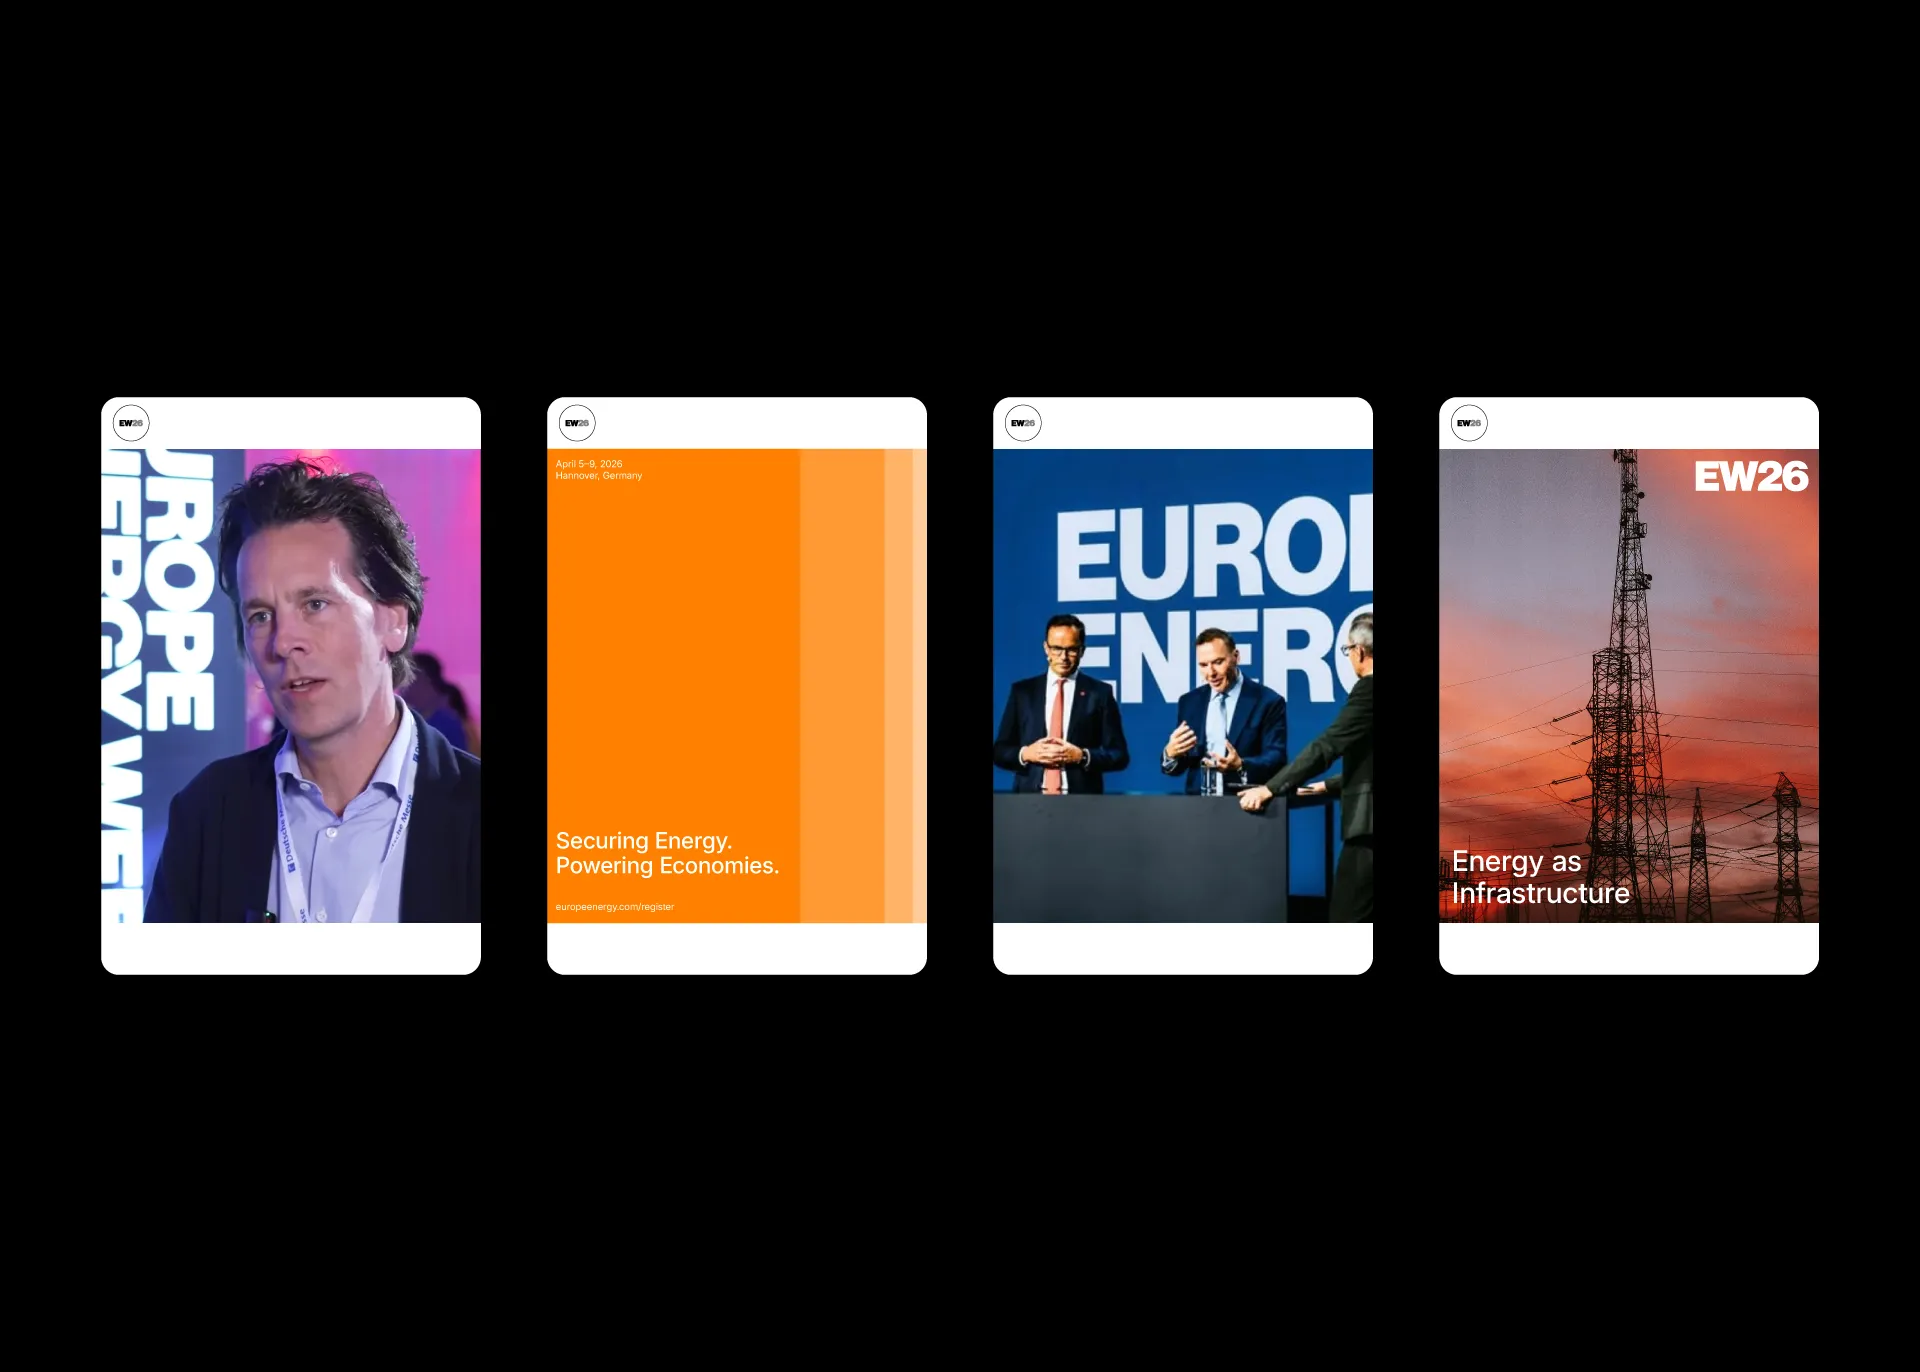
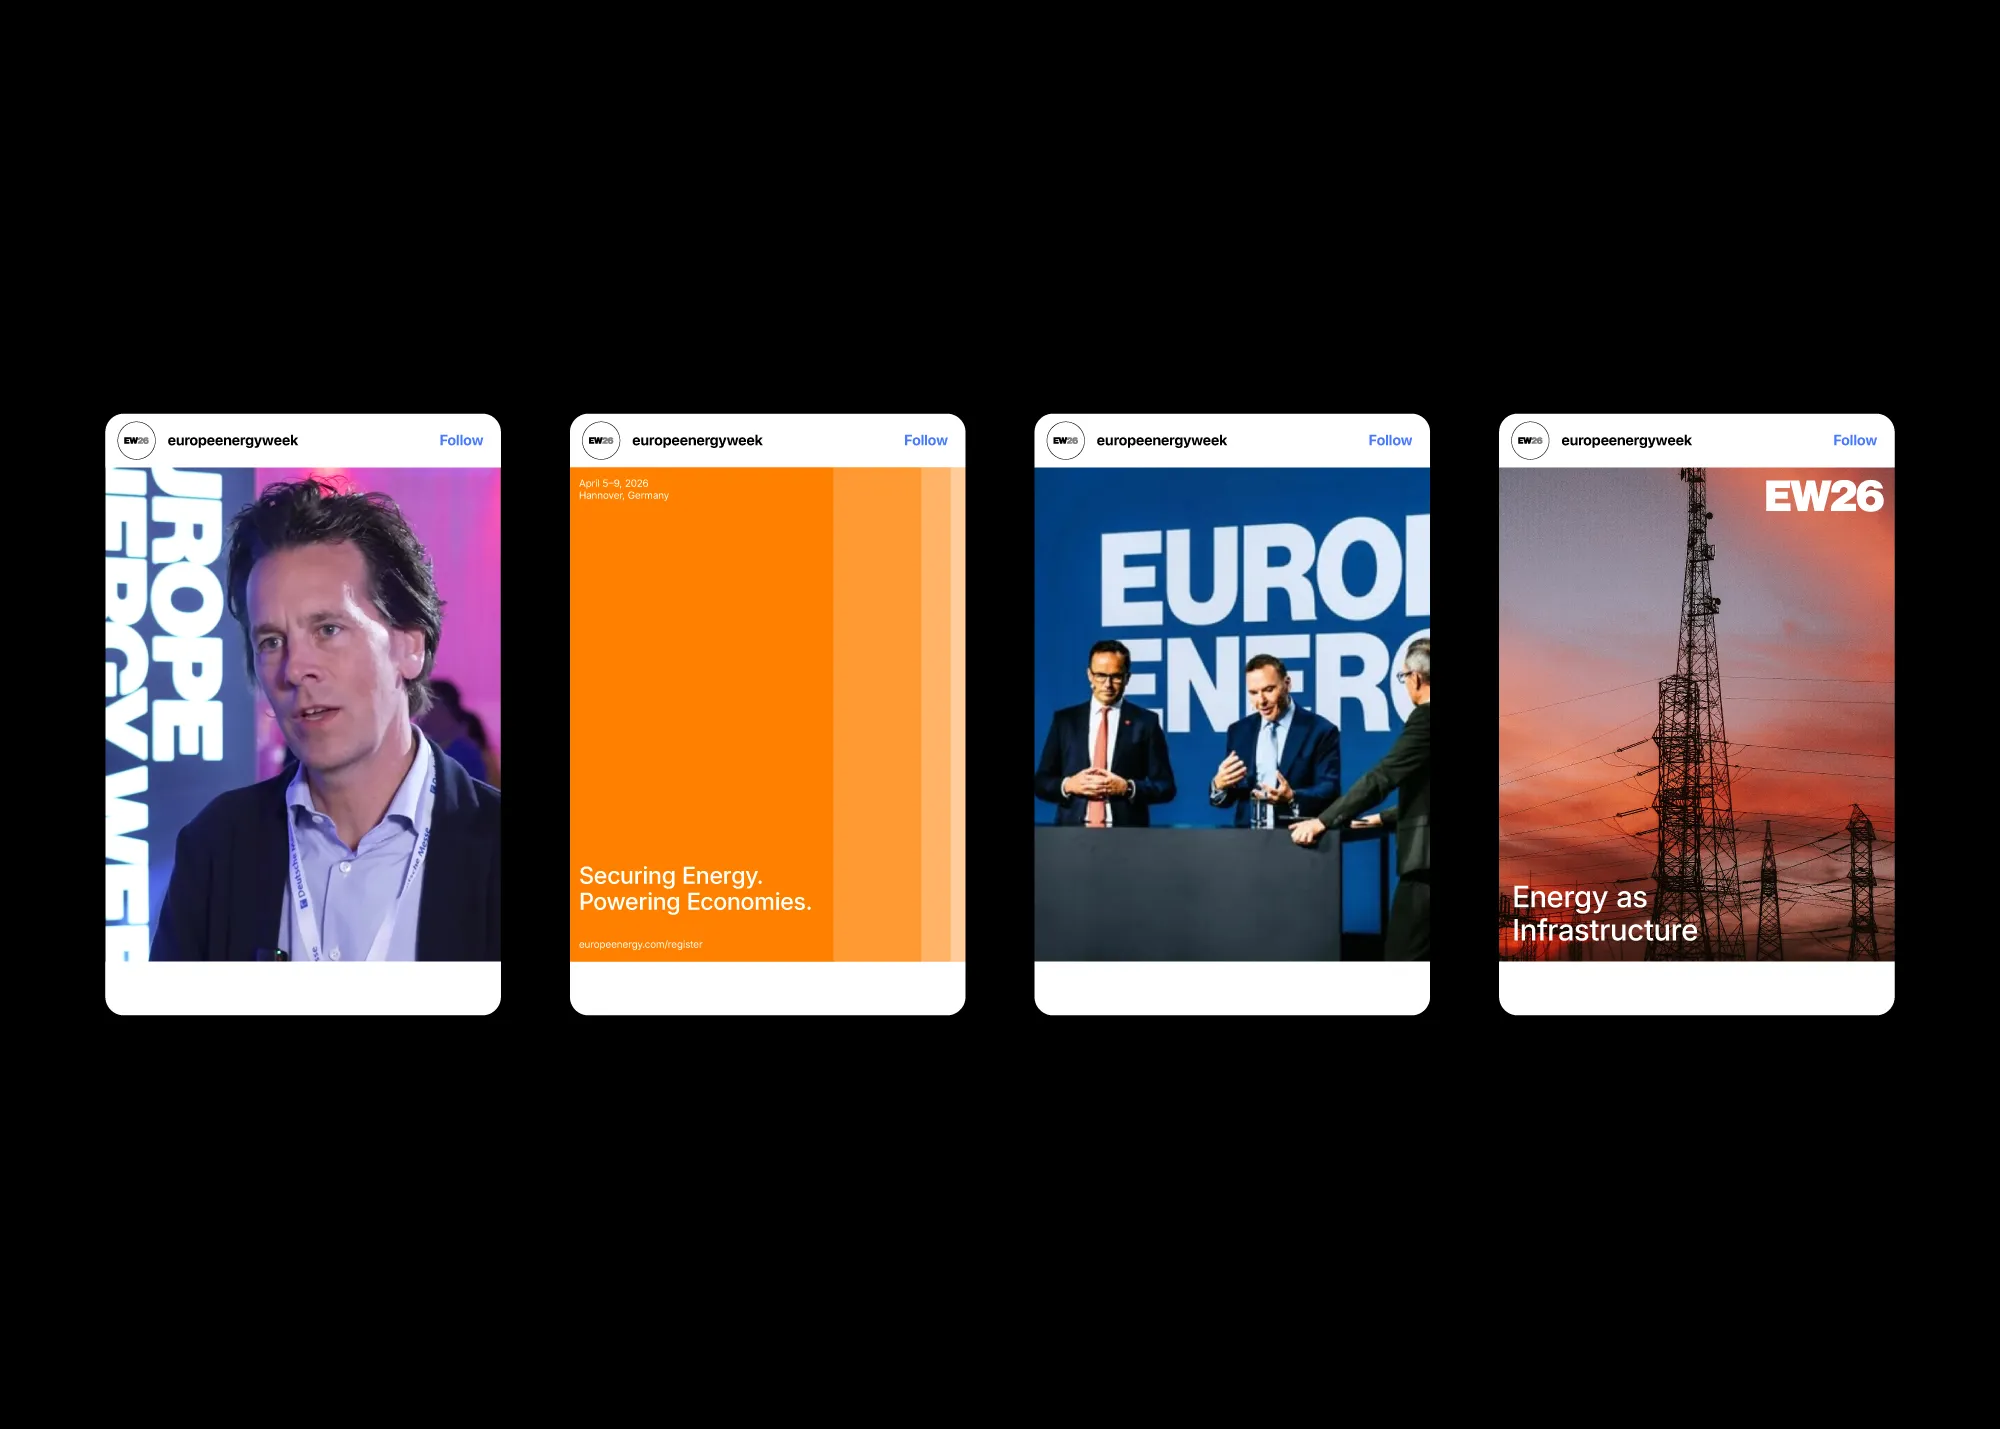
added listaid case

diff --git a/_site/projects/listaid/index.html b/_site/projects/listaid/index.html
@@ -1,0 +1,171 @@
+<!DOCTYPE html>
+<html lang="en">
+    <head>
+        <meta charset="UTF-8">
+        <meta name="viewport" content="width=device-width, initial-scale=1.0">
+        <meta http-equiv="X-UA-Compatible" content="ie=edge">
+        <meta name="author" content="Thomas Hadfield">
+        <meta name="description" content="Thomas Hadfield is a Canadian multidisciplinary graphic designer living and working in Toronto.">
+        <link rel="stylesheet" href="/styles/style.css">
+        <link rel="icon" type="image/x-icon" href="/assets/images/favicon.png">
+
+        <title>Thomas Hadfield – ListAid</title>
+
+    </head>
+
+
+
+    <body>
+
+        <div class="wrapper">
+            
+                    <header>
+
+            <section class="header-wrap">
+                <div class="header-left">
+                    <a href="/" class="header-home-btn"><h1>Thomas Hadfield <br> Graphic Designer </h1></a>
+                </div>
+
+                <div class="header-right">
+                    <h2> London, UK </h2>
+                    <output class="current-time" id="time">00:00:00</output>
+                </div>
+            </section>
+
+        </header>
+            
+        <section class="intro intro-alt">
+                
+            <div class="intro-info-wrap">
+
+                <p class="intro-links">
+                    <a href="/info/" rel="noopener noreferrer">Info</a>,
+                    <a href="mailto:work@hadfield.xyz" target="_blank" rel="noopener noreferrer">Email</a>,
+                    <a href="https://www.linkedin.com/in/thomashadfield" target="_blank" rel="noopener noreferrer">LinkedIn</a>,
+                    <a href="https://mastodon.social/@neuehaas" target="_blank" rel="noopener noreferrer">Mastodon</a>
+                </p>
+
+            </div>
+
+        </section>
+
+
+
+
+
+            
+        <!-- INFO -->
+
+        <section class="project-info">
+
+            <div class="intro-cont-wrap">
+                <h3 class="project-title">
+                    ListAid, 
+                </h3>
+
+                <h3 class="project-subject-intro">
+                    Brand Identity
+                </h3>
+            </div>
+            
+            <p class="intro-desc"> 
+                ListAid is an AI-powered pricing, listing, and retail intelligence app for charity shops and resellers. We used the brand strategy of &quot;A Circular Economy at Speed&quot; to root the logo and brand identity system. The logo icon shape expanded into a graphic device that helped make the brand colours and imagery cropping very ownable to Listaid&#39;s story. Allowing them to clearly get their brand messaging across. This simple set yet bold, strategy driven design system helped ListAid greatly stand out from their competitors and define who they are.
+                <br><br>
+                
+                <a href="  " target="_blank" rel="noopener noreferrer">  </a>
+                <br>
+                <a href="  " target="_blank" rel="noopener noreferrer">  </a>
+            </p>
+
+        </section>
+
+
+
+
+
+
+            <!-- PORTFOLIO -->
+            <section class="case-study">
+                
+                <img src="/assets/images/projects/listaid/listaid-byTH-horizontal-image-1.png" alt="listaid primary logo on blue background">
+<div class="two-col">
+    <img loading="lazy" src="/assets/images/projects/listaid/listaid-byTH-vertical-image-2.png" alt="listaid logo breakdown">
+    <img loading="lazy" src="/assets/images/projects/listaid/listaid-byTH-vertical-image-3.png" alt="listaid logo icon">
+</div>
+<img loading="lazy" src="/assets/images/projects/listaid/listaid-byTH-horizontal-image-4.webp" alt="listaid sticker on macbook pro">
+<div class="two-col">
+    <img loading="lazy" src="/assets/images/projects/listaid/listaid-byTH-vertical-image-5.png" alt="listaid logo construction, showing the logo angle">
+    <img loading="lazy" src="/assets/images/projects/listaid/listaid-byTH-vertical-image-6.webp" alt="rhombus shapes for images, derived from the logo">
+</div>
+<img loading="lazy" src="/assets/images/projects/listaid/listaid-byTH-horizontal-image-7.webp" alt="listaid horizontal banner ad outside on wall">
+<div class="two-col">
+    <img loading="lazy" src="/assets/images/projects/listaid/listaid-byTH-vertical-image-8.png" alt="colour palette">
+    <img loading="lazy" src="/assets/images/projects/listaid/listaid-byTH-vertical-image-9.webp" alt="listaid app icon, shown close up on phone screen">
+</div>
+<img loading="lazy" src="/assets/images/projects/listaid/listaid-byTH-horizontal-image-10.png" alt="primary brand typeface, Aspekta 800">
+<img loading="lazy" src="/assets/images/projects/listaid/listaid-byTH-horizontal-image-11.webp" alt="horizontal ad on wall inside underground next to staircase">
+<div class="two-col">
+    <img loading="lazy" src="/assets/images/projects/listaid/listaid-byTH-vertical-image-12.png" alt="listaid identity example">
+    <img loading="lazy" src="/assets/images/projects/listaid/listaid-byTH-vertical-image-13.webp" alt="back of listaid promotional t-shirt">
+</div>
+<img loading="lazy" src="/assets/images/projects/listaid/listaid-byTH-horizontal-image-14.webp" alt="listaid vertical ad, outside of green space">
+<img loading="lazy" src="/assets/images/projects/listaid/listaid-byTH-horizontal-image-15.webp" alt="listaid website example, shown on laptop">
+<div class="two-col">
+    <img loading="lazy" src="/assets/images/projects/listaid/listaid-byTH-vertical-image-16.webp" alt="front of listaid business card">
+    <img loading="lazy" src="/assets/images/projects/listaid/listaid-byTH-vertical-image-17.webp" alt="image of second hand clothing store">
+</div>
+<img loading="lazy" src="/assets/images/projects/listaid/listaid-byTH-horizontal-image-18.webp" alt="four listaid social post examples">
+<img loading="lazy" src="/assets/images/projects/listaid/listaid-byTH-horizontal-image-19.webp" alt="large horizontal listaid ad, on the side of a building.">
+<div class="two-col">
+    <img loading="lazy" src="/assets/images/projects/listaid/listaid-byTH-vertical-image-20.webp" alt="listaid blue tote back sitting on floor">
+    <img loading="lazy" src="/assets/images/projects/listaid/listaid-byTH-vertical-image-21.png" alt="listaid linkedin banner and icon example">
+</div>   
+
+            </section>
+            
+            <section class="pre-footer">
+                <p class="back-btn">
+                    <a href="/">See More Projects</a>
+                </p>
+            </section>
+
+            
+
+            <footer>
+                <div class="footer-content-1">
+                    <p class="footer-copyright">©2026 thomas hadfield.</p>
+                </div>
+
+                <div class="footer-content-2">
+                    
+                    <div class="footer-cont-wrap">
+                        <p class="colophon">
+                            colophon: 
+                            <a href="https://fonts.google.com/specimen/Geist" target="_blank" rel="noopener noreferrer">geist</a>, <a href="https://fonts.google.com/specimen/DM+Mono" target="_blank" rel="noopener noreferrer">DM mono</a>
+                        </p>
+
+                        <p>
+                            <a href="https://github.com/ThomasHadfield/th-portfolio-site" target="_blank" rel="noopener noreferrer">source code</a>
+                        </p>
+                    </div>
+
+                    <p class="top-btn">
+                        <a href="#top" rel="noopener noreferrer">&uarr;top</a>
+                    </p>
+
+                </div>
+            </footer>
+
+        </div>
+
+
+        <!-- Linked JS Files -->
+        <script type="text/javascript" src="https://unpkg.com/lenis@1.1.20/dist/lenis.min.js" referrerpolicy="no-referrer"></script> 
+
+        <script type="text/javascript" src="https://moment.github.io/luxon/global/luxon.min.js" referrerpolicy="no-referrer"></script>
+
+        <script type="text/javascript" src="/scripts/script.js" referrerpolicy="no-referrer"></script>
+
+    </body>
+
+</html>

diff --git a/_site/info/index.html b/_site/info/index.html
@@ -73,11 +73,11 @@
 
                     <div class="about-sec-right">
                         <p>
-                            Design, at its best, is thoughtful and intentional. I approach design as a practice of patience and exploration, allowing ideas the time to grow and evolve. Play and experimentation are essential; it’s in the unexpected intersections that inspiring work is found and created.
+                            Design, at its best, is thoughtful and intentional. I approach design as a practice of patience and exploration, allowing ideas the time to grow and evolve. Play and experimentation are essential; it is in the unexpected intersections that inspiring work is found and created.
                             <br><br>
-                            Brutalism and mid-century modernism inform my visual language, two seemingly contrasting influences that converge in my work. I am drawn to brutalism’s raw, structured forms, where boldness meets functionality, while the timeless elegance and forward-thinking principles of mid-century design continue to inspire and ground my practice. Whether it's through research or collecting old materials, I continue to look back on the past to learn from the pioneers of modernism.
+                            Brutalism and mid-century modernism inform my visual language, two seemingly contrasting influences that converge in my work. I am drawn to brutalism’s raw, structured forms, where boldness meets functionality, while the timeless elegance and forward-thinking principles of mid-century design continue to inspire and ground my practice. Whether it's through research or collecting old materials, I continue to look back on the past to learn from the pioneers of modernist design.
                             <br><br>
-                            Typography is at the heart of my work. I’ve been fascinated by letters since childhood, experimenting with forms and shapes long before I called it design. For me, typography is not just a tool—it’s a medium for expression. I try to create typographic led design work, allowing their forms to stand on their own. This to me is what shapes memorable and engaging design.
+                            Typography is at the heart of my work. I’ve been fascinated by letters since childhood, experimenting with forms and shapes long before I called it design. For me, typography is not just a tool—it’s a medium for expression. I try to create typographic led design work, allowing their forms to stand on their own. This to me is what shapes memorable and engaging brands.
                         </p>
                     </div>
 

diff --git a/_site/index.html b/_site/index.html
@@ -85,6 +85,18 @@
                         </div>
                     </section><section class="project">
 
+                        <a class="project-link" href=" /projects/listaid/">
+                            <div class="project-image-wrap">
+                                <img loading="lazy" src=" /assets/images/projects/listaid/listaid-byTH-image-hero.webp " alt=" listaid sticker on macbook pro ">    
+                            </div>
+                        </a>
+
+                        <div class="project-title-wrap">
+                            <p class="project-name"> ListAid, </p>
+                            <p class="project-subject">Brand Identity</p>
+                        </div>
+                    </section><section class="project">
+
                         <a class="project-link" href=" /projects/medium/">
                             <div class="project-image-wrap">
                                 <img loading="lazy" src=" /assets/images/projects/medium/medium_byTH_image_hero.webp " alt=" flat shot over the cover of the Medium book ">    

diff --git a/src/projects/listaid.md b/src/projects/listaid.md
@@ -1,0 +1,81 @@
+---
+
+date: 2025-01-01
+
+title: ListAid
+subject: Brand Identity
+
+description: ListAid is an AI-powered pricing, listing, and retail intelligence app for charity shops and resellers. We used the brand strategy of "A Circular Economy at Speed" to root the logo and brand identity system. The logo icon shape expanded into a graphic device that helped make the brand colours and imagery cropping very ownable to Listaid's story. Allowing them to clearly get their brand messaging across. This simple set yet bold, strategy driven design system helped ListAid greatly stand out from their competitors and define who they are.
+
+
+
+
+heroImage: /assets/images/projects/listaid/listaid-byTH-image-hero.webp
+heroImageAlt: listaid sticker on macbook pro
+
+# webTXT: Visit Website
+# webURL:
+# studioTXT: 'Studio:'
+# studioName: 
+# studioURL: 
+---
+
+
+<img src="/assets/images/projects/listaid/listaid-byTH-horizontal-image-1.png" alt="listaid primary logo on blue background">
+
+
+<div class="two-col">
+    <img loading="lazy" src="/assets/images/projects/listaid/listaid-byTH-vertical-image-2.png" alt="listaid logo breakdown">
+    <img loading="lazy" src="/assets/images/projects/listaid/listaid-byTH-vertical-image-3.png" alt="listaid logo icon">
+</div>
+
+
+<img loading="lazy" src="/assets/images/projects/listaid/listaid-byTH-horizontal-image-4.webp" alt="listaid sticker on macbook pro">
+
+
+<div class="two-col">
+    <img loading="lazy" src="/assets/images/projects/listaid/listaid-byTH-vertical-image-5.png" alt="listaid logo construction, showing the logo angle">
+    <img loading="lazy" src="/assets/images/projects/listaid/listaid-byTH-vertical-image-6.webp" alt="rhombus shapes for images, derived from the logo">
+</div>
+
+
+<img loading="lazy" src="/assets/images/projects/listaid/listaid-byTH-horizontal-image-7.webp" alt="listaid horizontal banner ad outside on wall">
+
+
+<div class="two-col">
+    <img loading="lazy" src="/assets/images/projects/listaid/listaid-byTH-vertical-image-8.png" alt="colour palette">
+    <img loading="lazy" src="/assets/images/projects/listaid/listaid-byTH-vertical-image-9.webp" alt="listaid app icon, shown close up on phone screen">
+</div>
+
+
+<img loading="lazy" src="/assets/images/projects/listaid/listaid-byTH-horizontal-image-10.png" alt="primary brand typeface, Aspekta 800">
+
+<img loading="lazy" src="/assets/images/projects/listaid/listaid-byTH-horizontal-image-11.webp" alt="horizontal ad on wall inside underground next to staircase">
+
+
+<div class="two-col">
+    <img loading="lazy" src="/assets/images/projects/listaid/listaid-byTH-vertical-image-12.png" alt="listaid identity example">
+    <img loading="lazy" src="/assets/images/projects/listaid/listaid-byTH-vertical-image-13.webp" alt="back of listaid promotional t-shirt">
+</div>
+
+
+<img loading="lazy" src="/assets/images/projects/listaid/listaid-byTH-horizontal-image-14.webp" alt="listaid vertical ad, outside of green space">
+
+<img loading="lazy" src="/assets/images/projects/listaid/listaid-byTH-horizontal-image-15.webp" alt="listaid website example, shown on laptop">
+
+
+<div class="two-col">
+    <img loading="lazy" src="/assets/images/projects/listaid/listaid-byTH-vertical-image-16.webp" alt="front of listaid business card">
+    <img loading="lazy" src="/assets/images/projects/listaid/listaid-byTH-vertical-image-17.webp" alt="image of second hand clothing store">
+</div>
+
+
+<img loading="lazy" src="/assets/images/projects/listaid/listaid-byTH-horizontal-image-18.webp" alt="four listaid social post examples">
+
+<img loading="lazy" src="/assets/images/projects/listaid/listaid-byTH-horizontal-image-19.webp" alt="large horizontal listaid ad, on the side of a building.">
+
+
+<div class="two-col">
+    <img loading="lazy" src="/assets/images/projects/listaid/listaid-byTH-vertical-image-20.webp" alt="listaid blue tote back sitting on floor">
+    <img loading="lazy" src="/assets/images/projects/listaid/listaid-byTH-vertical-image-21.png" alt="listaid linkedin banner and icon example">
+</div>

diff --git a/README.md b/README.md
@@ -31,3 +31,6 @@
 
 ### August 08, 2026
 - Added AV-X case images
+
+### August 98, 2026
+- Added ListAid case images
